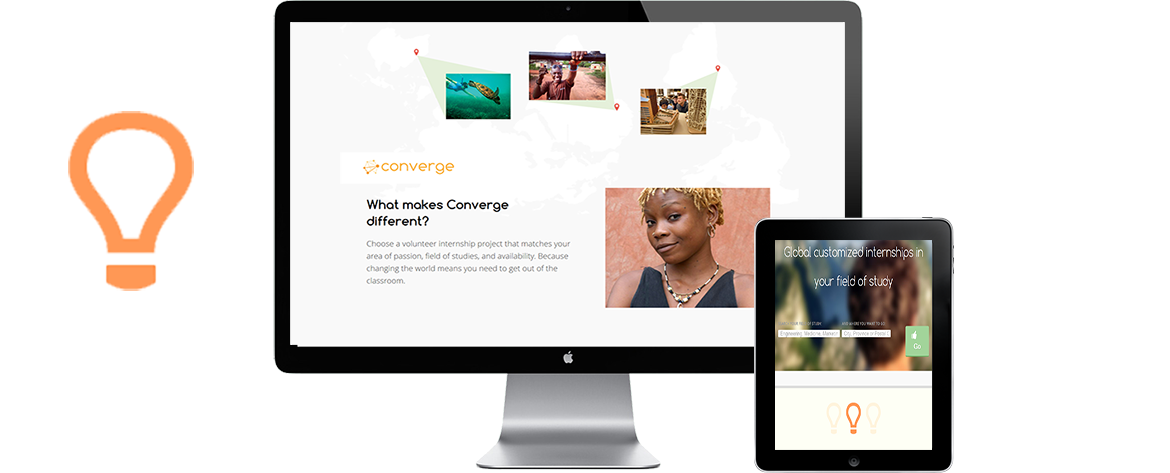
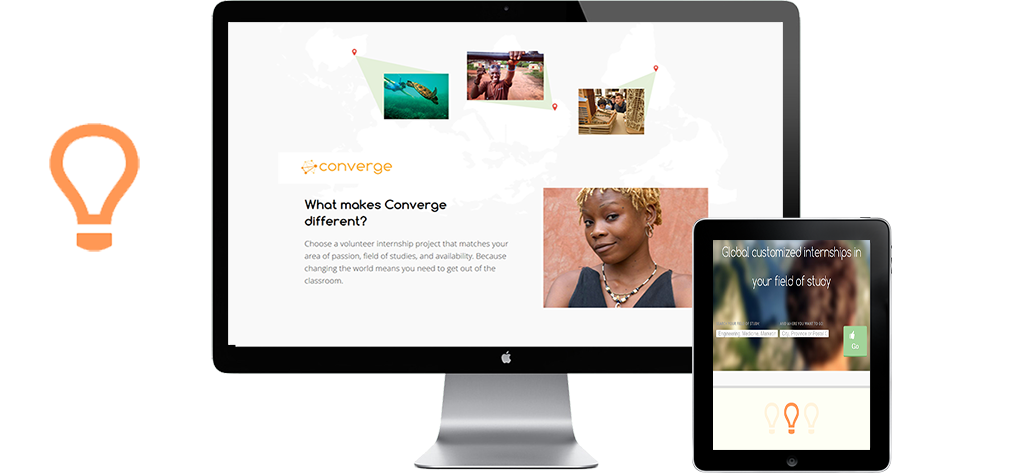
fully responsive work slider images. SUCESS.

diff --git a/index.html b/index.html
@@ -7,7 +7,6 @@
         <meta name="description" content="">
         <meta name="viewport" content="width=device-width, initial-scale=1">
 
-        <link rel="stylesheet" href="http://netdna.bootstrapcdn.com/bootstrap/3.1.1/css/bootstrap.min.css">
 		<link href='http://fonts.googleapis.com/css?family=Josefin+Slab:400,700' rel='stylesheet' type='text/css'>
 		<link href='http://fonts.googleapis.com/css?family=Baumans' rel='stylesheet' type='text/css'>
 		<link rel="stylesheet" type="text/css" href="http://fonts.googleapis.com/css?family=Montez" />
@@ -47,7 +46,7 @@
 	</div>
 
 				
-<!--hero section-->
+<!--work section-->
      
 		<section id="hero">
 
@@ -56,26 +55,25 @@
 			
 			<div id="layer1">
 
-				<div class="work1">
+					<div class="work1">
+					
+							<img src="css/img/work2.png"/>
 
-					<div class="col-lg-9 col-md-12 col-sm-12">
-						<img src="css/img/work2.png"/>
 					</div>
-				</div>
-				
+					
 
 			
 				<div class="work2">
-					<div class="col-6">
+
 						<img src="css/img/work1.png"/>
-					</div>
+
 				</div>
 
 				
 				<div class="work3">
-					<div class="col-6">
+
 						<img src="css/img/work3.png"/>
-					</div>
+
 				</div>
 
 				<div id="shelf"></div>
@@ -88,15 +86,18 @@
 <!--description and work display section-->
 	
 			
-				<div id="vintage">
-					<div class="desc col-lg-4 col-lg-offset-7 col-md-8 col-md-offset-3 col-sm-12 col-sm-offset-0">
-					 <h2> Vintage Wine & Market </h2>
-						<p>Promo for Los Angeles-based restaurant that specializes in local wines and craft beers.</p>
-						<a>
-							<span class="seemore" id="linkVintage">See more</span>
-						</a>
-				</div>
-			</div>
+
+
+						<div class="desc" id="vintage">
+					 			<h2> Vintage Wine & Market </h2>
+									<p>Promo for Los Angeles-based restaurant that specializes in local wines and craft beers.</p>
+							<a>
+								<span class="seemore" id="linkVintage">See more</span>
+							</a>
+						</div>
+
+
+
 
 
 				<div id="vintageFull">
@@ -112,16 +113,16 @@
 				</div>
 
 			
-			<div class="col-6">
-				<div class="desc" id="jeremy">
-					<h2>JEREMY WARD | Violone & Violoncello </h2>
-						<p> Chicago-based cellist Jeremy David Ward is a performer, teacher, clinician, and historical performance expert.</p>
-						<a>
-							<span class="seemore" id="linkJeremy">See more</span>
-						</a>
 
-				</div>
-			</div>
+					<div class="desc" id="jeremy">
+						<h2>Jeremy David Ward </h2>
+							<p> Chicago-based cellist Jeremy David Ward is a performer, teacher, clinician, and historical performance expert.</p>
+							<a>
+								<span class="seemore" id="linkJeremy">See more</span>
+							</a>
+
+					</div>
+
 
 
 				<div id="jeremyFull">
@@ -140,16 +141,15 @@
 				</div>
 
 
-			<div class="col-6">
-				<div class="desc" id="converge">
-					<h2> Converge </h2>
-						<p>Converge provides a platform for students to connect with internships globally. </p>
-						<a>
-							<span class="seemore" id="linkConverge">See more</span>
-						</a>
-						
-				</div>
-			</div>
+
+					<div class="desc" id="converge">
+						<h2> Converge </h2>
+							<p>Converge provides a platform for students to connect with internships globally. </p>
+							<a>
+								<span class="seemore" id="linkConverge">See more</span>
+							</a>
+					</div>
+
 
 				<div id="convergeFull">
 					<p>
@@ -164,7 +164,7 @@
 								<img src="img/ipo4.jpg"/>
 								<img src="img/ipo2.jpg"/>
 								<img src="img/ipo3.jpg"/>
-				</div>
+						</div>
 
 			
 		</section>

diff --git a/css/main.css b/css/main.css
@@ -119,6 +119,7 @@ textarea {
 
 
 
+
 /* ==========================================================================
    Big styles
    ========================================================================== */
@@ -163,13 +164,17 @@ a:hover {
 
 #layer1 img {
 
-  max-width: 100%;
-  min-width:100%;
-  position:relative;
-  bottom:0;
-  z-index:99999;
+max-width: 20%;
+min-width: 20%;
+margin-left: 7%;
+position: absolute;
+bottom: 150px;
+z-index: 99999;
 
 }
+
+
+
 
 
 #loading {
@@ -359,18 +364,14 @@ background: url("");
     }
 
 
-#hero .browse.disabled {
-background-position: 0 0;
-cursor: default;
-}
 	
 .browse.prev {
 cursor: pointer;
 position: absolute;
 left: 0;
 top: 411px;
-width: 80px;
-height: 150px;
+width: 35px;
+height: 73px;
 display: block;
 z-index: 5;
 background: url('img/navarrowbeforeprev.png') no-repeat;
@@ -398,8 +399,8 @@ cursor: pointer;
 position: absolute;
 left: 0;
 top: 411px;
-width: 92px;
-height: 150px;
+width: 40px;
+height: 73px;
 display: block;
 z-index: 5;
 background: url('img/navarrowafterprev.png') no-repeat;
@@ -422,8 +423,8 @@ right: 0;
 cursor: pointer;
 position: absolute;
 top: 411px;
-width: 30px;
-height: 150px;
+width: 35px;
+height: 73px;
 display: block;
 z-index: 5;
 background: url('img/navarrowbefore.png') left center no-repeat;
@@ -452,8 +453,8 @@ right: 0;
 cursor: pointer;
 position: absolute;
 top: 411px;
-width: 45px;
-height: 150px;
+width: 40px;
+height: 73px;
 display: block;
 z-index: 5;
 background: url('img/navarrowafter.png') left center no-repeat;
@@ -513,7 +514,12 @@ p{
 
 #hero .desc {
 position: relative;
+margin-left:auto;
+margin-right:auto;
 z-index: 6;
+width:66.666%;
+margin-left:35%;
+padding-top:5%;
 }
 
 
@@ -525,7 +531,6 @@ a {
 .seemore {
 position: relative;
 display: block;
-margin: 7% 0 0 0;
 font-family: 'Lato', sans-serif;
 font-size: 0.75em;
 line-height: 1.83333em;
@@ -695,8 +700,75 @@ z-index:10;
 
 
 /* ==========================================================================
-   Footers styles
+   media queries
    ========================================================================== */
+
+@media (min-width:900px) and (max-width:1300px){
+  #layer1 img {
+
+  max-width: 25%;
+  min-width: 25%;
+  margin-left:5%;
+
+}
+
+#hero .desc {
+  margin-left:33.333%;
+  padding-top:10%;
+}
+
+
+
+}
+
+@media (min-width:700px) and (max-width:900px){
+  #layer1 img {
+
+  max-width: 30%;
+  min-width: 30%;
+  margin-left:3%;
+
+}
+
+#hero .desc {
+  margin-left:30%;
+  padding-top:10%;
+}
+
+}
+
+@media (min-width:500px) and (max-width: 700px){
+    #layer1 img {
+
+  max-width: 35%;
+  min-width: 35%;
+  margin-left:0;
+}
+
+#hero .desc {
+  margin-left:25%;
+  padding-top:25%;
+}
+
+
+}
+
+@media (min-width:300px) and (max-width: 500px){
+    #layer1 img {
+
+  max-width: 35%;
+  min-width: 35%;
+  margin-left:0;
+}
+
+#hero .desc {
+  width:80%;
+  margin-left:20%;
+  padding-top:55%;
+}
+
+
+}
 
 
 

diff --git a/js/main.js b/js/main.js
@@ -149,7 +149,7 @@ var STELLARJS = {
 init: function() {
     var self = this;
     $(function(){
-        self.$sections = $('#landing, #work, #about, #contact').each(function(index){
+        self.$sections = $('#landing, #hero, #aboutSection, #contactSection').each(function(index){
             $(this).data('sectionIndex', index);
         });
 
